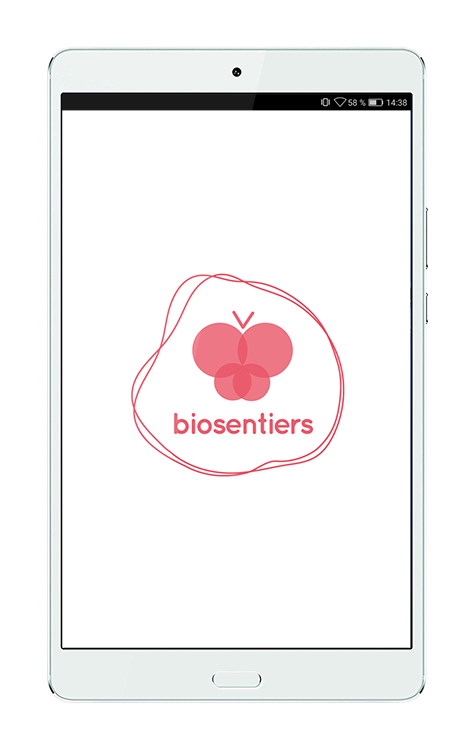
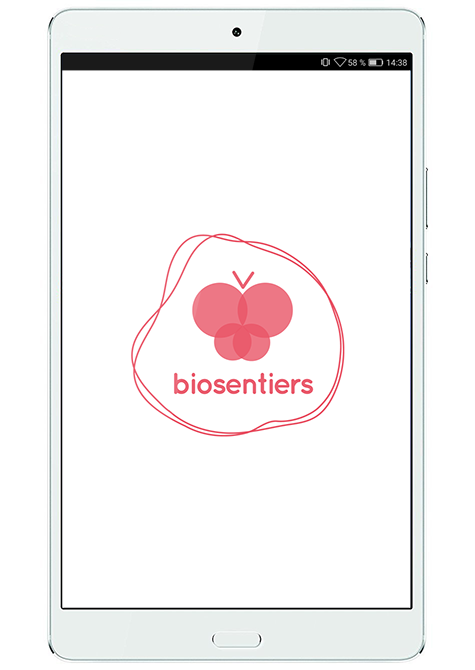
Integrated the youtube video (Plus small CSS changes)

diff --git a/sources/less/accueil.less b/sources/less/accueil.less
@@ -1,4 +1,4 @@
-#header {
+#accueil {
   background-image: url('../img/cover.jpg');
   background-repeat: no-repeat;
   background-attachment: scroll;
@@ -6,11 +6,23 @@
   text-align: center;
   color: white;
   position: relative;
-  min-height: 100vh;
   .background-cover;
 
+  .wrapper {
+    /* Permalink - use to edit and share this gradient: http://colorzilla.com/gradient-editor/#000000+0,000000+100&0+0,0.5+100 */
+    background: -moz-linear-gradient(top, rgba(0,0,0,0) 0%, rgba(0,0,0,0.5) 100%); /* FF3.6-15 */
+    background: -webkit-linear-gradient(top, rgba(0,0,0,0) 0%,rgba(0,0,0,0.5) 100%); /* Chrome10-25,Safari5.1-6 */
+    background: linear-gradient(to bottom, rgba(0,0,0,0) 0%,rgba(0,0,0,0.5) 100%); /* W3C, IE10+, FF16+, Chrome26+, Opera12+, Safari7+ */
+    padding-bottom: 50px; 
+    min-height: 100vh;
+
+    .container {
+      padding-top: 200px;
+    }
+  }
+
   .intro-text {
-    padding: 100px 22% 60px 22%;
+    padding: 100px 22% 40px 22%;
 
     .intro-heading {
       font-size: 1.3em;
@@ -42,10 +54,10 @@
 }
 
 @media(max-width:768px) {
-  #header {
+  #accueil {
 
     .intro-text {
-      padding: 100px 15px 50px 15px;
+      padding: 100px 15px 25px 15px;
     
       .intro-heading {
         line-height: 50px;
@@ -53,18 +65,5 @@
         .body-font;
       }
     }
-  }
-}
-
-#accueil {
-  /* Permalink - use to edit and share this gradient: http://colorzilla.com/gradient-editor/#000000+0,000000+100&0+0,0.5+100 */
-  background: -moz-linear-gradient(top, rgba(0,0,0,0) 0%, rgba(0,0,0,0.5) 100%); /* FF3.6-15 */
-  background: -webkit-linear-gradient(top, rgba(0,0,0,0) 0%,rgba(0,0,0,0.5) 100%); /* Chrome10-25,Safari5.1-6 */
-  background: linear-gradient(to bottom, rgba(0,0,0,0) 0%,rgba(0,0,0,0.5) 100%); /* W3C, IE10+, FF16+, Chrome26+, Opera12+, Safari7+ */
-  padding: 0;
-  min-height: 100vh;
-
-  .container {
-    padding-top: 200px;
   }
 }

diff --git a/index.html b/index.html
@@ -65,8 +65,8 @@
   </nav>
 
   <!-- Header -->
-  <section id="header">
-    <section id="accueil">
+  <section id="accueil">
+    <div class="wrapper">
       <div class="container">
         <img src="./img/round_logo_BS_300.png">
         <div class="intro-text">
@@ -75,7 +75,7 @@
         </div>
       </div>
       <a class="page-scroll" href="#apropos"><i class="glyphicon glyphicon-menu-down"></i></a>
-    </section>
+    </div>
   </section>
 
   <!-- À Propos -->
@@ -235,7 +235,9 @@
         <!-- Video Tab -->
         <div role="tabpanel" class="tab-pane fade" id="video">
           <div class="wrapper">
-
+            <div class="screencast">
+              <iframe width="349" height="554" src="https://www.youtube.com/embed/DmTBVKcQ60Y?&rel=0&showinfo=0" frameborder="0" allowfullscreen></iframe>
+            </div>
           </div>
         </div>
       </div>
@@ -247,7 +249,6 @@
   <section id="contacts">
     <div class="row ">
       <div class="col-md-6 gradient">
-        <br>
         <h2> Contact </h2>
         <p class="contactdcp"> Ntore veritatis et quasi architecto beatae vitae dicta sunt explicabo. Nemo enim ipsam voluptatem quia voluptas sit
           aspernatur aut odit aut fugit, sed quia consequuntur magni dolores eos qui ratione. Lorem ipsum dolor sit amet,

diff --git a/sources/less/screens.less b/sources/less/screens.less
@@ -1,4 +1,6 @@
 #ecrans {
+  padding-bottom: 100px;
+
   .bs-tabs {
     list-style: none;
     padding: 0;
@@ -28,19 +30,12 @@
 
 #screens-tab {
   .wrapper {
-    display: flex;
-    justify-content: center;
+    .tab-wrapper;
   }
 
   .screen-carousel {
-    order: 2;
-    height: 750px;
-    flex: 0 0 457px;
-    background: url(../img/tablet.png) no-repeat center center;
-    position: relative;
-    display: flex;
     justify-content: space-between;
-    align-items: center;
+    .tablet-bg;
 
     .wrapper {
       width: 349px;
@@ -124,6 +119,23 @@
   }
 }
 
+#video {
+  .wrapper {
+    .tab-wrapper;
+  }
+
+  .screencast {
+    .tablet-bg;
+    justify-content: center;
+
+    iframe {
+      position: relative;
+      top: -3px;
+      left: -1px;
+    }
+  }
+}
+
 #screens-carousel {
   position: relative;
   left: -1px;
@@ -137,4 +149,19 @@
       background-color: @bs-blue;
     }
   }
+}
+
+.tab-wrapper() {
+  display: flex;
+  justify-content: center;
+}
+
+.tablet-bg() {
+  order: 2;
+  height: 670px;
+  flex: 0 0 530px;
+  background: url(../img/tablet.png) no-repeat center center;
+  display: flex;
+  align-items: center;
+  padding: 0 30px;
 }

diff --git a/sources/js/biosentiers.js b/sources/js/biosentiers.js
@@ -15,7 +15,6 @@
     var $activeLegend = $('.' + currentSlide, $screenTab);
     currentSlide = $(e.relatedTarget).attr('data-slide-id');
     var $newLegend = $('.' + currentSlide, $screenTab);
-    console.log($activeLegend, $newLegend);
     $activeLegend.addClass('hidden');
     $newLegend.removeClass('hidden');
   });

diff --git a/sources/less/agency.less b/sources/less/agency.less
@@ -2,7 +2,7 @@
 @import "_mixins.less";
 @import "map.less";
 @import "navbar.less";
-@import "header.less";
+@import "accueil.less";
 @import "about.less";
 @import "screens.less";
 
